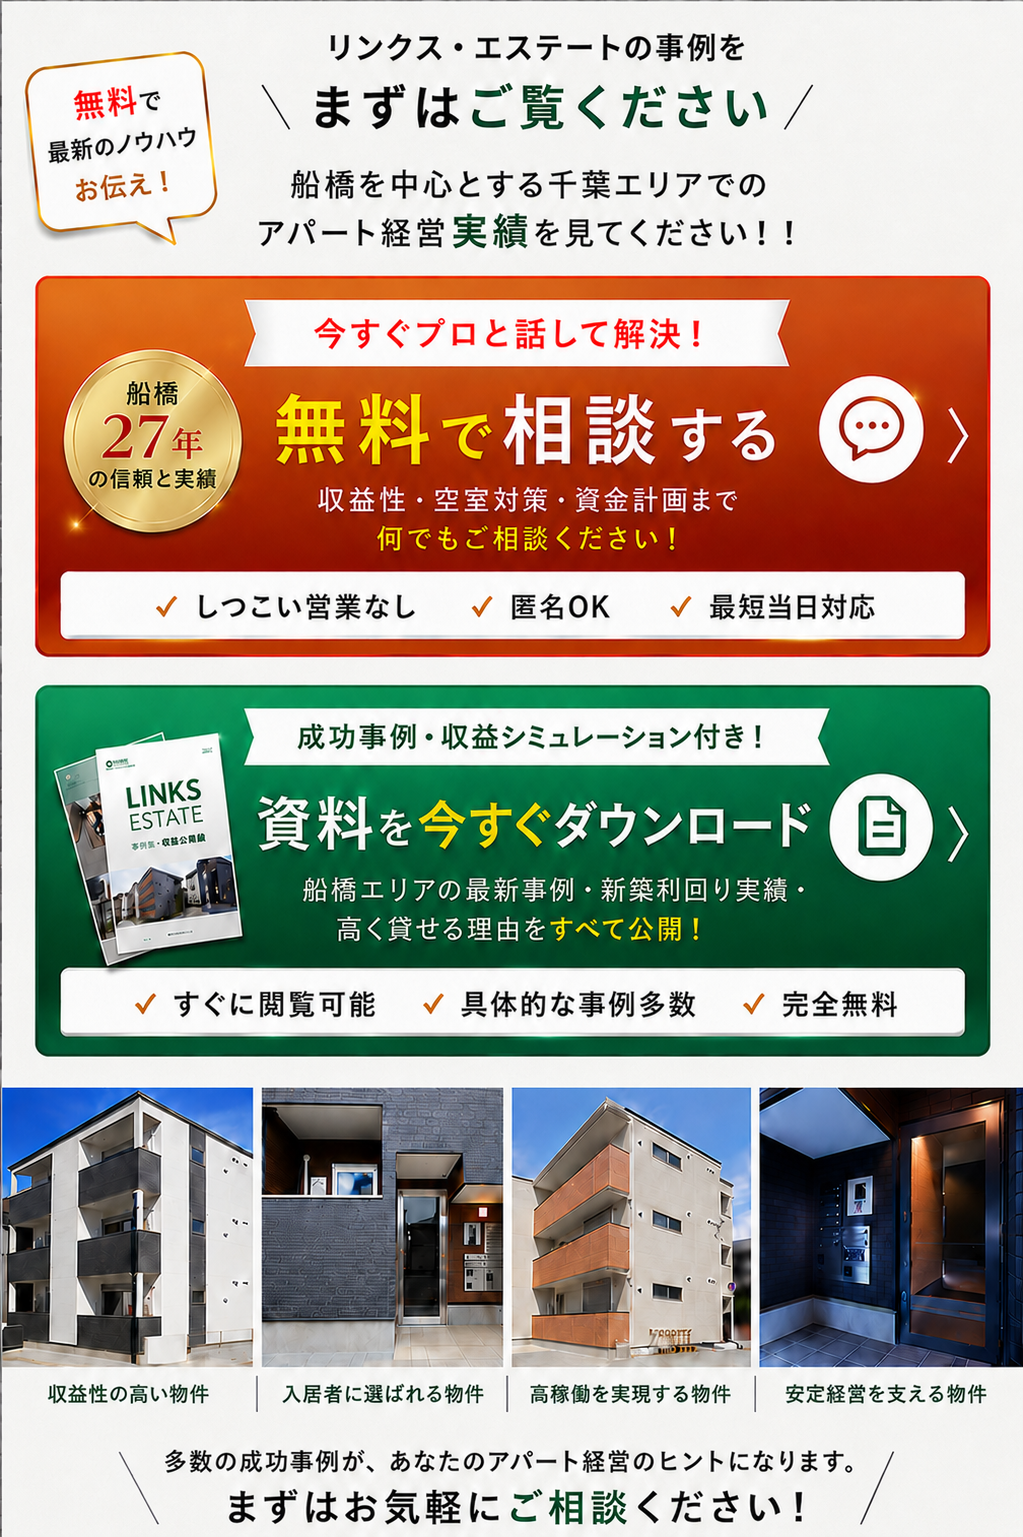
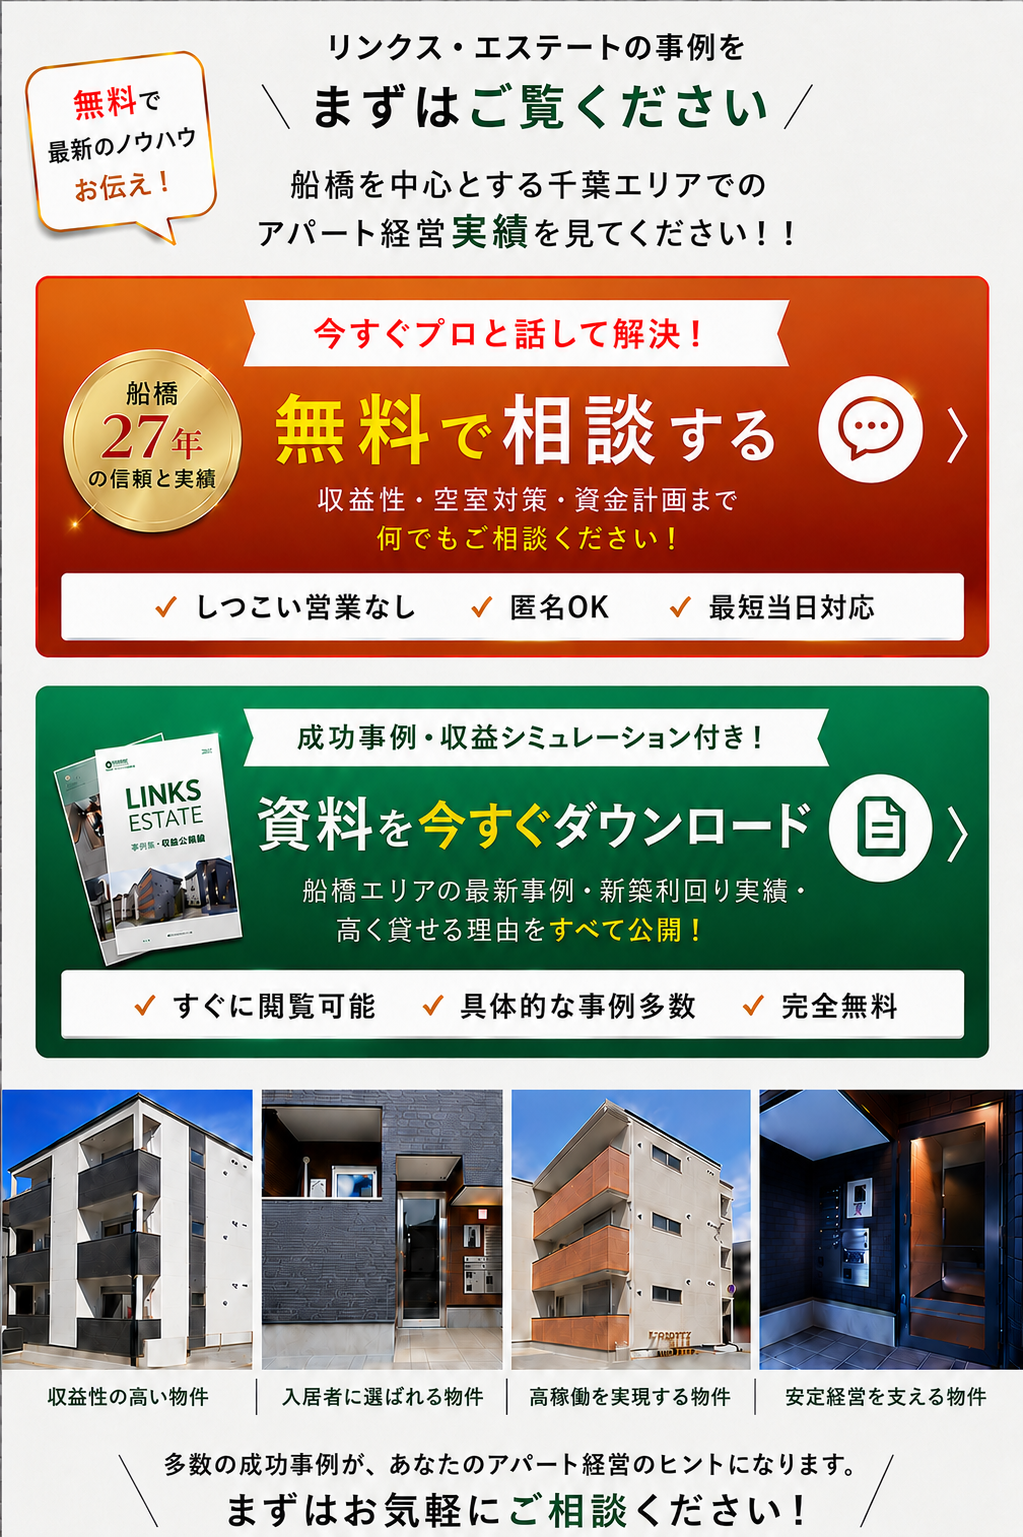
6枚目の画像を最新版へ更新

diff --git a/index.html b/index.html
@@ -94,7 +94,7 @@
 
       <div class="lp__image">
         <img
-          src="./img/6.png?v=202608271753"
+          src="./img/6.png?v=202608271804"
           alt="船橋の不動産投資についてのご案内"
           width="1023"
           height="1537"
